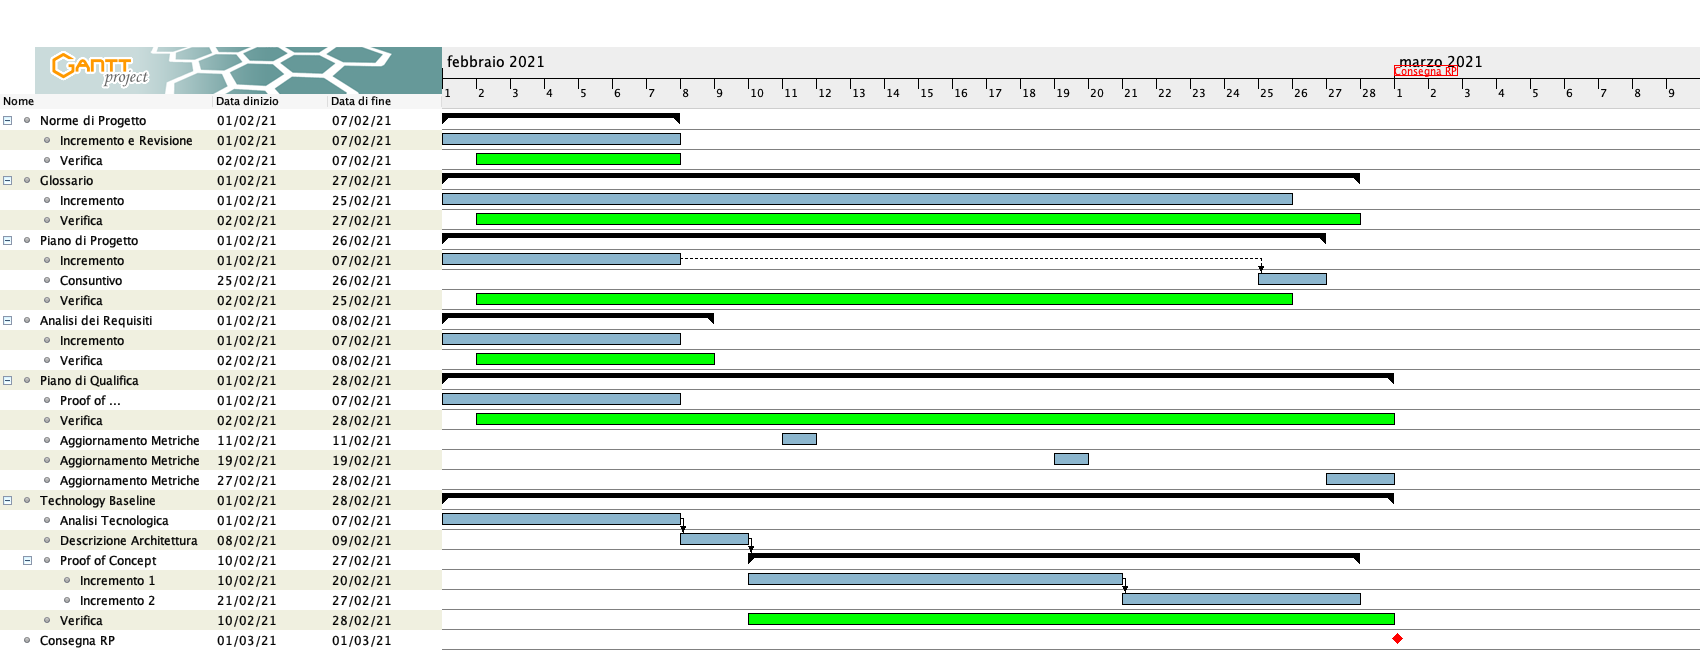
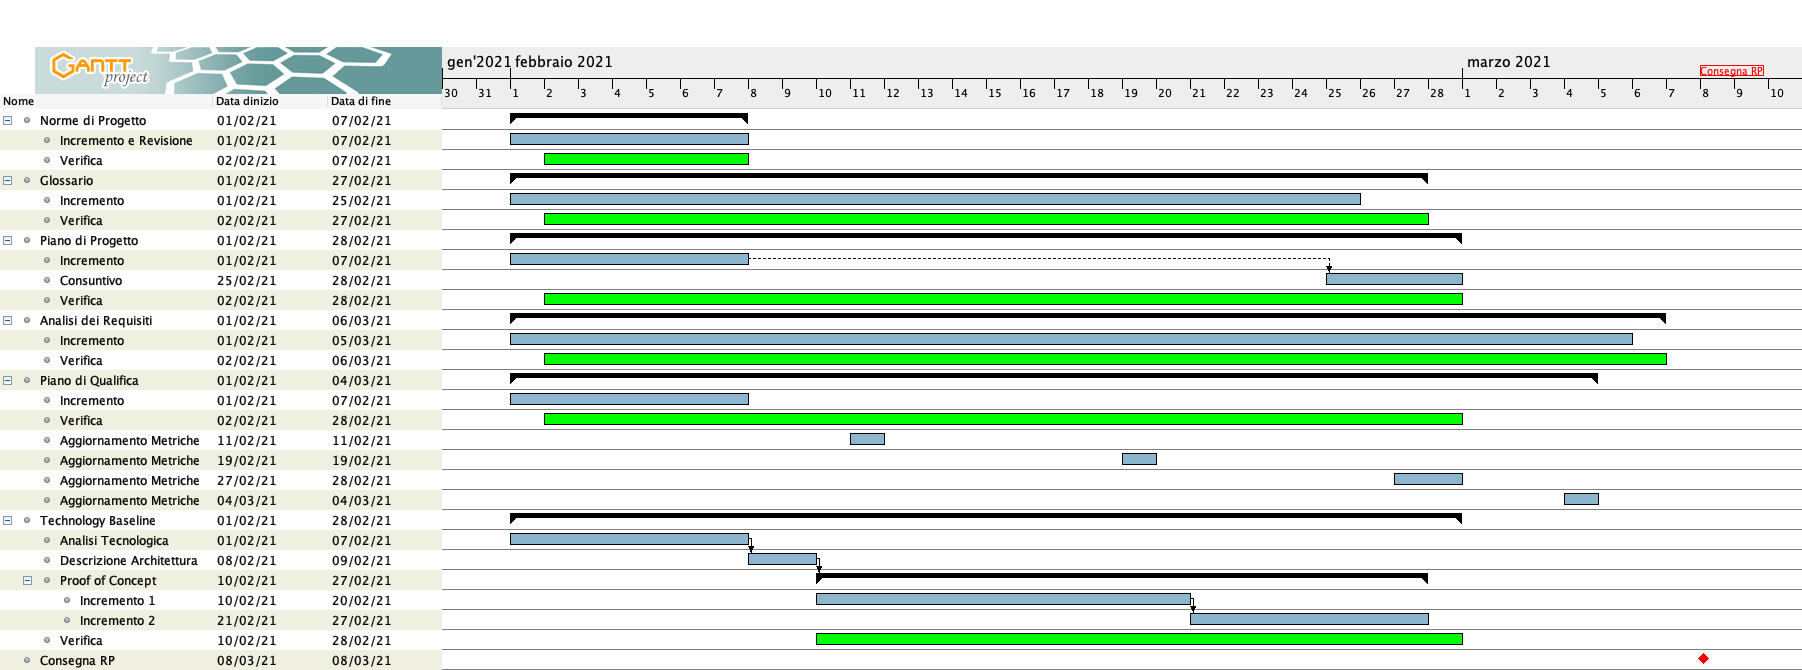
Corretto gantt e registri

diff --git a/DocumentiPubblici/PianoDiProgetto/Sezioni/RegistroModifiche.tex b/DocumentiPubblici/PianoDiProgetto/Sezioni/RegistroModifiche.tex
@@ -2,11 +2,13 @@
 	
 	2.0	  & 2021\_03\_06 & \VD{} & Responsabile & - & Approvazione del documento.\\
 	
-	1.5	  & 2021\_02\_28 & \TG{} & Amministratore & \TL{} & Aggiornata sezione \S\ref{ConsuntivoPArchitetturale}.\\
+	1.6	  & 2021\_03\_03 & \TG{} & Amministratore & \TL{} & Aggiornata sezione \S\ref{ConsuntivoPArchitetturale}.\\
+	
+	1.5	  & 2021\_02\_28 & \TG{} & Amministratore & \TL{} & Aggiornata sezione \S\ref{ConsuntivoPArchitetturale} e \S\ref{GanttArch}.\\
 	
 	1.4	  & 2021\_02\_20 & \MM{} & Amministratore & \TG{} & Aggiornata sezione \S\ref{ConsuntivoPArchitetturale} e \S\ref{GanttArch}.\\
 	
-	1.3	  & 2021\_02\_12 & \MM{} & Amministratore & \PC{} & Aggiornata sezione \S\ref{GanttArch}.\\
+	1.3	  & 2021\_02\_12 & \MM{} & Amministratore & \PC{} & Redatta sezione \S\ref{RipianificazionePArch} e aggiornata sezione \S\ref{GanttArch}.\\
 	
 	1.2	  & 2021\_02\_10 & \MM{} & Amministratore & \FF{} & Redatta sezione \S\ref{ConsuntivoPArchitetturale}.\\
 	

diff --git a/DocumentiPubblici/PianoDiProgetto/Sezioni/Sottosezioni/Pianificazione/ProgettazioneArchitetturale.tex b/DocumentiPubblici/PianoDiProgetto/Sezioni/Sottosezioni/Pianificazione/ProgettazioneArchitetturale.tex
@@ -24,6 +24,9 @@ Le attività da svolgere durante il periodo sono:
         \item \textbf{Incremento 2 (dal 2021\_02\_21 al 2021\_02\_27)}: Realizzazione dei requisiti e dei casi d'uso non completati precedentemente e miglioramento di quelli già implementati.
     \end{itemize}
 \end{itemize}
+\subsubsection{Ripianificazione attuata durante il periodo} \label{RipianificazionePArch}
+In seguito alla \glo{RR}, ai colloqui con il \VT e il \CR e ai valori ottenuti dal calcolo delle metriche riportate nel \PdQv{2.0}, il gruppo è stato costretto a rivedere più volte la pianificazione delle attività per poter recuperare i ritardi dovuti a correzioni non previste da riportare principalmente all'\AdR\. 
+Di seguito si riporta l'ultimo diagramma di Gantt sul quale il gruppo ha fatto affidamento.
 \newpage
 \subsubsection{Diagramma di Gantt: Progettazione architetturale}\label{GanttArch}
 \begin{figure}[ht]

diff --git a/DocumentiPubblici/PianoDiQualifica/Sezioni/RegistroModifiche.tex b/DocumentiPubblici/PianoDiQualifica/Sezioni/RegistroModifiche.tex
@@ -2,6 +2,8 @@
 	
 	2.0 & 2021\_03\_06 & \VD{} & Verificatore & - & Approvazione del documento.\\
 	
+	1.6 & 2021\_03\_4 & \MM{} & Verificatore & \BL{} & Aggiornate metriche sezione \S\ref{ResocontoPArchitetturale}.\\
+	
 	1.5 & 2021\_02\_28 & \MM{} & Verificatore & \BL{} & Aggiornate metriche sezione \S\ref{ResocontoPArchitetturale}.\\
 	
 	1.4 & 2021\_02\_20 & \TG{} & Verificatore & \PC{} & Aggiornate metriche sezione \S\ref{ResocontoPArchitetturale}.\\
